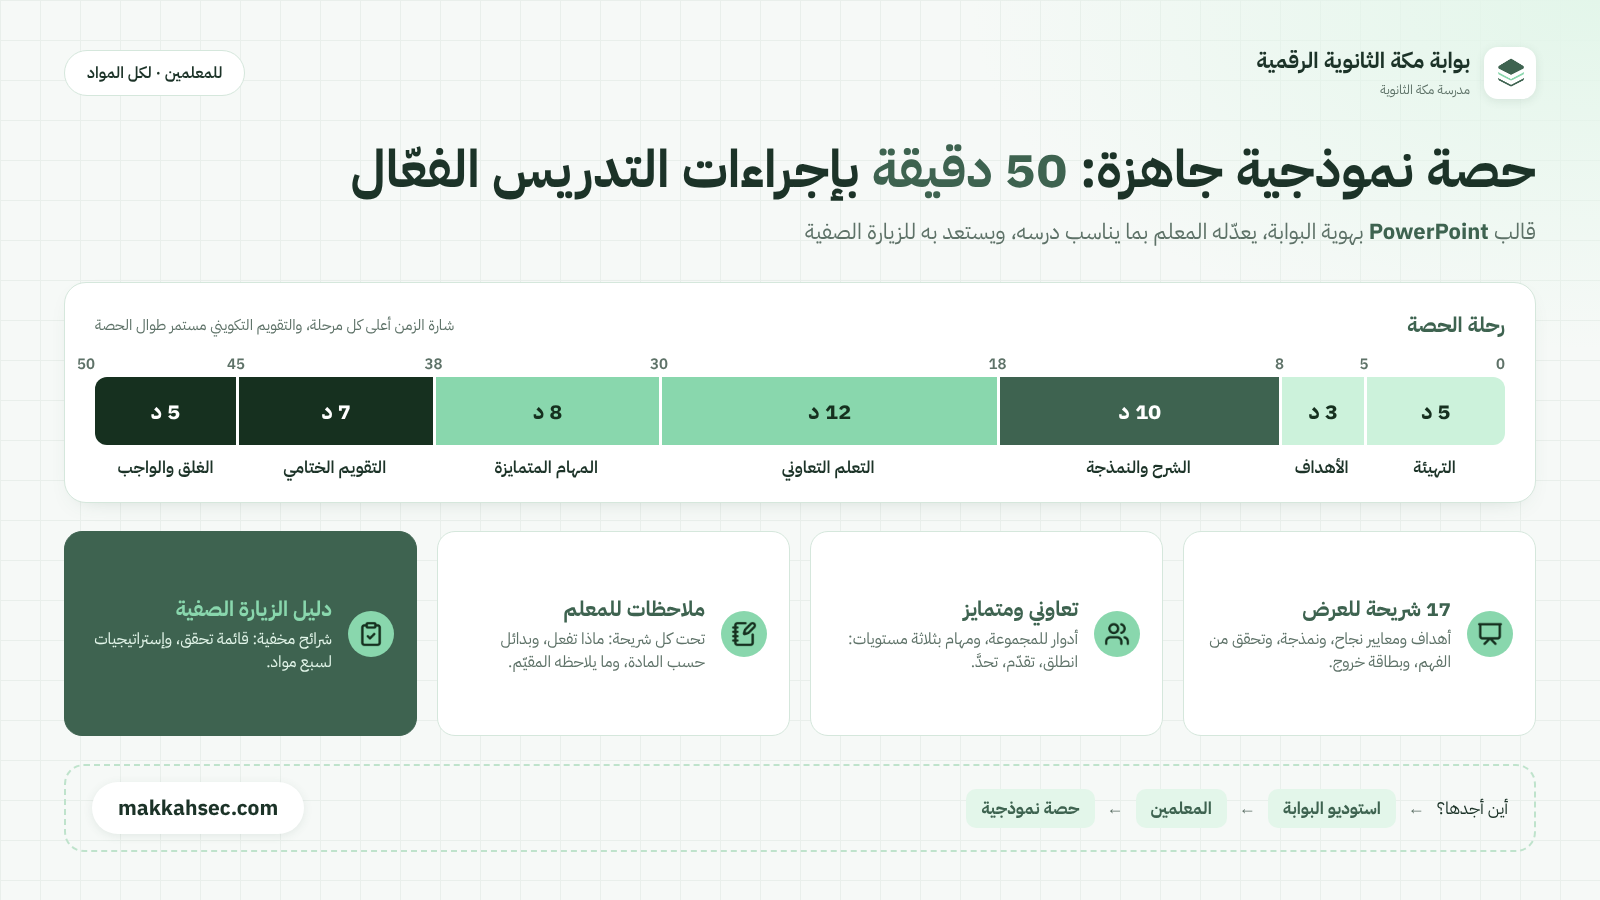
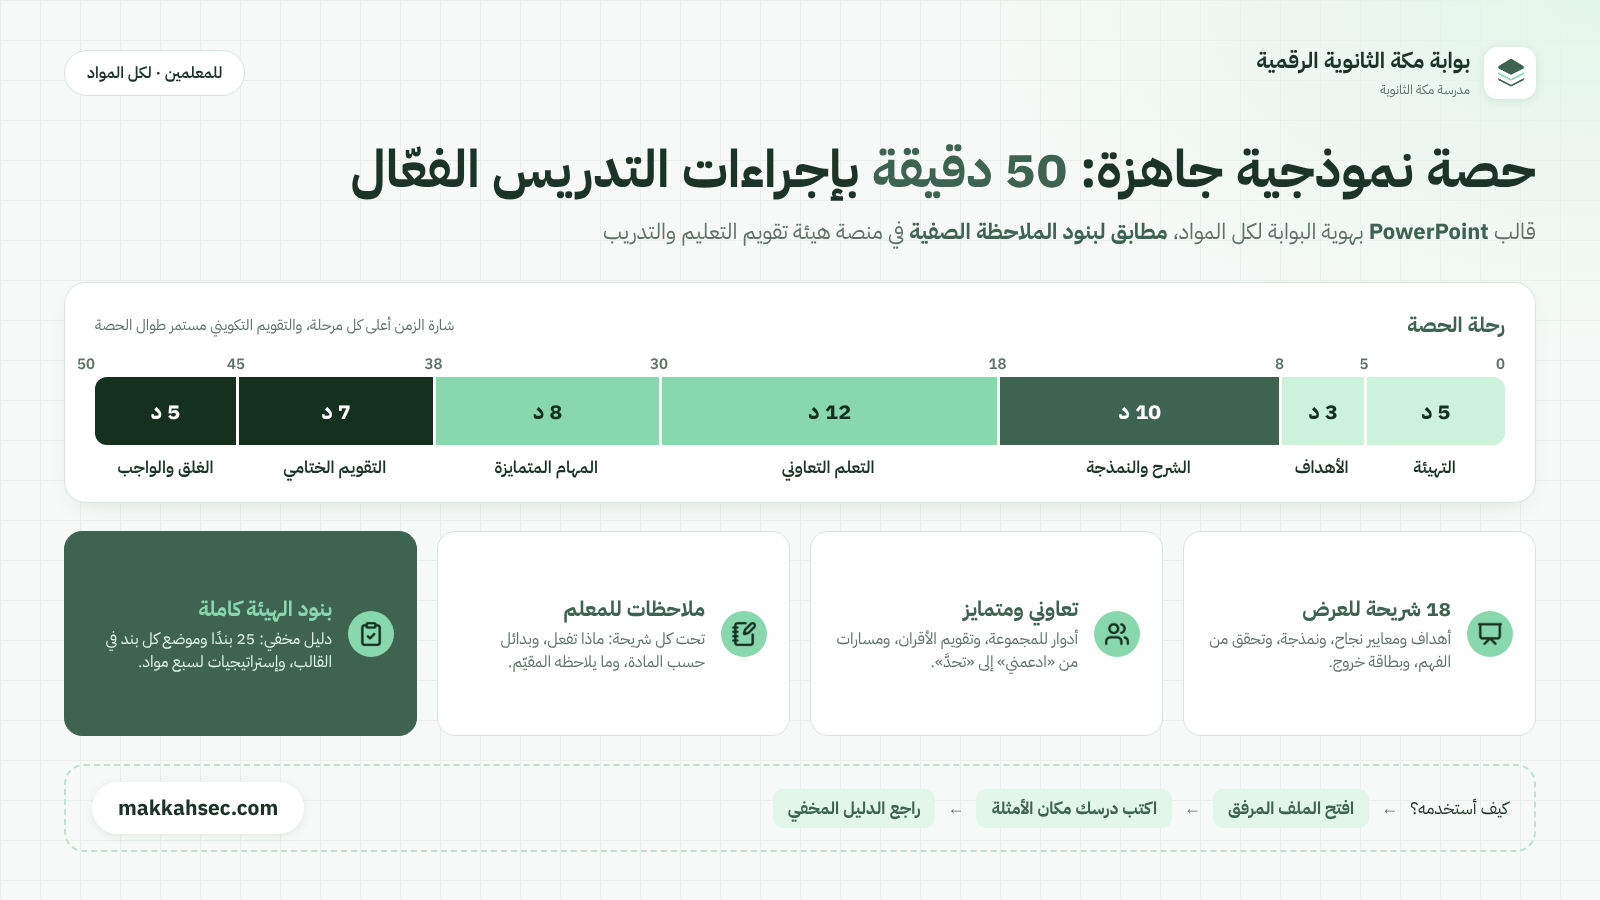
منشور الحصة النموذجية: تحديث الصورة والنص بعد مطابقة بنود الهيئة
الملف يُرسل مرفقًا مع المنشور بدل الإشارة إلى استوديو البوابة، لأن القالب غير منشور فيه.

Claude-Session: https://claude.ai/code/session_01QqE5ZmtWvAgAxVPJdptfae

diff --git a/docs/model-lesson/post/post.html b/docs/model-lesson/post/post.html
@@ -56,7 +56,7 @@ h1 em{font-style:normal;color:#3E6350}
  <div class="aud">للمعلمين · لكل المواد</div>
 </div>
 <h1>حصة نموذجية جاهزة: <em>50 دقيقة</em> بإجراءات التدريس الفعّال</h1>
-<p class="sub">قالب <b>PowerPoint</b> بهوية البوابة، يعدّله المعلم بما يناسب درسه، ويستعد به للزيارة الصفية</p>
+<p class="sub">قالب <b>PowerPoint</b> بهوية البوابة لكل المواد، <b>مطابق لبنود الملاحظة الصفية</b> في منصة هيئة تقويم التعليم والتدريب</p>
 
 <div class="panel">
  <div class="ph"><b>رحلة الحصة</b><span>شارة الزمن أعلى كل مرحلة، والتقويم التكويني مستمر طوال الحصة</span></div>
@@ -66,14 +66,14 @@ h1 em{font-style:normal;color:#3E6350}
 </div>
 
 <div class="cards">
- <div class="c"><i><img src="../build/icons/Presentation.png"></i><div><b>17 شريحة للعرض</b><p>أهداف ومعايير نجاح، ونمذجة، وتحقق من الفهم، وبطاقة خروج.</p></div></div>
- <div class="c"><i><img src="../build/icons/Users.png"></i><div><b>تعاوني ومتمايز</b><p>أدوار للمجموعة، ومهام بثلاثة مستويات: انطلق، تقدّم، تحدَّ.</p></div></div>
+ <div class="c"><i><img src="../build/icons/Presentation.png"></i><div><b>18 شريحة للعرض</b><p>أهداف ومعايير نجاح، ونمذجة، وتحقق من الفهم، وبطاقة خروج.</p></div></div>
+ <div class="c"><i><img src="../build/icons/Users.png"></i><div><b>تعاوني ومتمايز</b><p>أدوار للمجموعة، وتقويم الأقران، ومسارات من «ادعمني» إلى «تحدَّ».</p></div></div>
  <div class="c"><i><img src="../build/icons/NotebookPen.png"></i><div><b>ملاحظات للمعلم</b><p>تحت كل شريحة: ماذا تفعل، وبدائل حسب المادة، وما يلاحظه المقيّم.</p></div></div>
- <div class="c dk"><i><img src="../build/icons/ClipboardCheck.png"></i><div><b>دليل الزيارة الصفية</b><p>شرائح مخفية: قائمة تحقق، وإستراتيجيات لسبع مواد.</p></div></div>
+ <div class="c dk"><i><img src="../build/icons/ClipboardCheck.png"></i><div><b>بنود الهيئة كاملة</b><p>دليل مخفي: 25 بندًا وموضع كل بند في القالب، وإستراتيجيات لسبع مواد.</p></div></div>
 </div>
 
 <div class="foot">
- <div class="path">أين أجدها؟ <span class="ar">←</span><span class="ch">استوديو البوابة</span><span class="ar">←</span><span class="ch">المعلمين</span><span class="ar">←</span><span class="ch">حصة نموذجية</span></div>
+ <div class="path">كيف أستخدمه؟ <span class="ar">←</span><span class="ch">افتح الملف المرفق</span><span class="ar">←</span><span class="ch">اكتب درسك مكان الأمثلة</span><span class="ar">←</span><span class="ch">راجع الدليل المخفي</span></div>
  <div class="url">makkahsec.com</div>
 </div>
 <script>

diff --git a/docs/model-lesson/post/post.md b/docs/model-lesson/post/post.md
@@ -1,24 +1,25 @@
 # منشور قالب «الحصة النموذجية» للمعلمين
 
-الصورة العريضة (لواتساب): `model-lesson-wide.png` (يُعاد توليدها من `post.html`) (١٦٠٠ × ٩٠٠).
+الصورة العريضة (لواتساب): `model-lesson-wide.png` (١٦٠٠ × ٩٠٠)، يُعاد توليدها من `post.html`.
+يُرسل المنشور مع ملف `model-lesson-template.pptx` مرفقًا.
 
 ## النص المرافق
 
-حصة نموذجية جاهزة في بوابة مكة الثانوية الرقمية: 50 دقيقة بإجراءات التدريس الفعّال
+حصة نموذجية جاهزة: 50 دقيقة بإجراءات التدريس الفعّال
 
-قالب PowerPoint بهوية البوابة يصلح لكل المواد، يعدّله المعلم بما يناسب درسه، ويستعد به للزيارة الصفية:
+قالب PowerPoint بهوية البوابة لكل المواد، مطابق لبنود الملاحظة الصفية في منصة هيئة تقويم التعليم والتدريب:
 
 ١. التهيئة (5 د): اتفاقات صفية، وسؤال محفّز، و«ماذا نعرف عن الموضوع؟».
 ٢. الأهداف (3 د): أهداف متدرجة ومعايير نجاح «أستطيع أن…».
 ٣. الشرح والنمذجة (10 د): مفاهيم الدرس، ومثال محلول، وسؤال «تحقّق من فهمك».
-٤. التعلم التعاوني (12 د): مهمة للمجموعة بأدوار، وسؤال تفكير عليا، وربط بالحياة.
-٥. المهام المتمايزة (8 د): ثلاثة مستويات: انطلق، تقدّم، تحدَّ.
+٤. التعلم التعاوني (12 د): مهمة بأدوار فيها قراءة وحساب وكتابة، وتقويم الأقران، وسؤال تفكير، وربط بالحياة والقيم.
+٥. المهام المتمايزة (8 د): أربعة مسارات من «ادعمني» إلى «تحدَّ»، و«أكمل وحدك».
 ٦. التقويم الختامي (7 د): بطاقة خروج 3-2-1.
 ٧. الغلق والواجب (5 د): خلاصة يكتبها الطلاب، وتقييم ذاتي، وواجب.
 
 ★ تحت كل شريحة ملاحظات للمعلم: ماذا يفعل، وبدائل حسب المادة، وما يلاحظه المقيّم.
-★ في آخره دليل مخفي لا يظهر أثناء العرض: قائمة تحقق للزيارة الصفية، وإستراتيجيات مقترحة لسبع مواد.
+★ في آخره دليل مخفي لا يظهر أثناء العرض: بنود الملاحظة الصفية الخمسة والعشرون وموضع كل بند في القالب، وإستراتيجيات مقترحة لسبع مواد.
 
-أين أجدها؟ القائمة ← استوديو البوابة ← المعلمين ← حصة نموذجية.
+كيف أستخدمه؟ افتح الملف المرفق ← اكتب درسك مكان الأمثلة ← راجع الدليل المخفي قبل الزيارة.
 
 makkahsec.com
